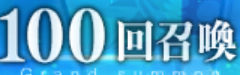
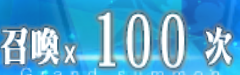
FGOTW V3.79 fix friend gacha

diff --git a/game_script/get_box.js b/game_script/get_box.js
@@ -103,11 +103,7 @@ function getFriendPoint() {
       return;
     }
     if (isFriendPointTen()) {
-      if(server == "JP"){
-        clickIcon("friendPointHundred");
-      }else{
-        clickIcon("friendPointTen");
-      }
+      clickIcon("friendPointHundred");
     } else if (isFriendPointFree()) {
       tapScale(938, 825);
     } else if (isFriendPointContinue()) {

diff --git a/index.js b/index.js
@@ -5,7 +5,7 @@ var itemPath;
 var server;
 var loadApiCnt;
 
-var version = "V3.78";
+var version = "V3.79";
 
 function start(loopTime, script, scriptName, be, pref) {
   startScript(loopTime, script, scriptName, be, pref);
